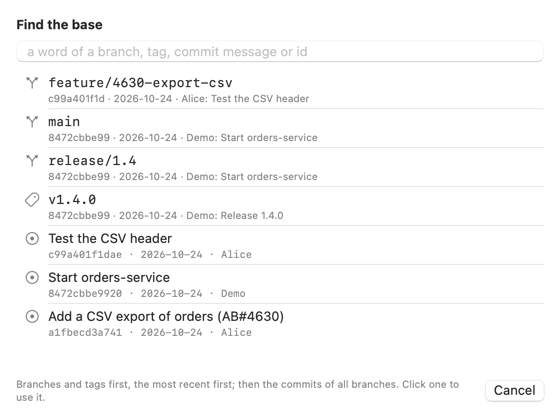
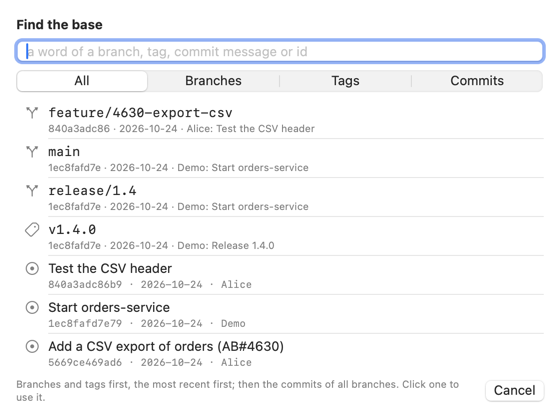
Filter Find… by branches, tags or commits
The Find sheet of a local review's Base and Head gets All / Branches /
Tags / Commits; the 30-row limit counts only the chosen kind, so a
filter shows more of it. CLI: akit review points --kind.

diff --git a/AKitCore/Sources/AKitReview/ReviewLocalPoints.swift b/AKitCore/Sources/AKitReview/ReviewLocalPoints.swift
@@ -17,6 +17,30 @@ public struct ReviewLocalPoint: Codable, Sendable, Hashable, Identifiable {
     public var author: String
     public var date: String
     public var id: String { "\(kind.rawValue):\(name)" }
+
+    /// What Find… shows: everything, or one kind (Branches holds the remote ones too).
+    public enum Filter: String, Codable, Sendable, CaseIterable, Identifiable {
+        case all, branches, tags, commits
+        public var id: Self { self }
+
+        public var title: String {
+            switch self {
+            case .all: "All"
+            case .branches: "Branches"
+            case .tags: "Tags"
+            case .commits: "Commits"
+            }
+        }
+
+        public func admits(_ kind: Kind) -> Bool {
+            switch self {
+            case .all: true
+            case .branches: kind == .branch || kind == .remote
+            case .tags: kind == .tag
+            case .commits: kind == .commit
+            }
+        }
+    }
 }
 
 extension ReviewLocal {
@@ -26,8 +50,9 @@ extension ReviewLocal {
     /// word of it is in the name, the commit's subject or author, or starts the commit id. Refs
     /// come first, the most recent first (a tag by its own date), then the commits of all branches,
     /// newest first.
-    /// An empty query gives the most recent ones.
-    public static func points(path: URL, query: String = "", limit: Int = 30, env: HarnessEnvironment) async throws -> [ReviewLocalPoint] {
+    /// An empty query gives the most recent ones. `filter` keeps one kind; the limit counts only those.
+    public static func points(path: URL, query: String = "", filter: ReviewLocalPoint.Filter = .all, limit: Int = 30,
+                              env: HarnessEnvironment) async throws -> [ReviewLocalPoint] {
         guard let git = env.findExecutable("git") else { throw Failure(message: "git is not installed.") }
         func run(_ arguments: [String]) async -> String? {
             let result = await ProcessRunner.run(git, arguments: ["-C", path.path] + arguments, environment: env.gitVariables, timeout: 60)
@@ -39,11 +64,11 @@ extension ReviewLocal {
         let words = query.lowercased().split(whereSeparator: \.isWhitespace).map(String.init)
         func matches(_ point: ReviewLocalPoint) -> Bool {
             let text = "\(point.name) \(point.subject) \(point.author)".lowercased()
-            return words.allSatisfy { text.contains($0) || point.sha.hasPrefix($0) }
+            return filter.admits(point.kind) && words.allSatisfy { text.contains($0) || point.sha.hasPrefix($0) }
         }
 
         var found: [ReviewLocalPoint] = []
-        let refs = await run(["for-each-ref", "--sort=-creatordate",
+        let refs = filter == .commits ? "" : await run(["for-each-ref", "--sort=-creatordate",
                               "--format=%(refname)%1f%(refname:short)%1f%(objectname)%1f%(subject)%1f%(authorname)%1f%(committerdate:short)%1f%(*objectname)%1f%(*authorname)%1f%(*committerdate:short)%1f%(objecttype)%1f%(*objecttype)",
                               "refs/heads", "refs/remotes", "refs/tags"]) ?? ""
         for line in refs.split(separator: "\n") {
@@ -62,10 +87,10 @@ extension ReviewLocal {
             if matches(point) { found.append(point) }
         }
 
-        var commits = await run(["log", "--branches", "--remotes", "--tags", "HEAD", "-n", String(maxSearchedCommits), "--date=short",
+        var commits = !filter.admits(.commit) ? "" : await run(["log", "--branches", "--remotes", "--tags", "HEAD", "-n", String(maxSearchedCommits), "--date=short",
                                  "--format=%H%x1f%s%x1f%an%x1f%ad"]) ?? ""
         // An older commit by its id: the log above doesn't go that far back.
-        if let word = words.first, words.count == 1, word.count >= 4, word.range(of: "^[0-9a-f]+$", options: .regularExpression) != nil,
+        if filter.admits(.commit), let word = words.first, words.count == 1, word.count >= 4, word.range(of: "^[0-9a-f]+$", options: .regularExpression) != nil,
            !commits.contains("\n\(word)"), !commits.hasPrefix(word),
            let one = await run(["log", "-1", "--date=short", "--format=%H%x1f%s%x1f%an%x1f%ad", "\(word)^{commit}", "--"]) {
             commits += "\n" + one

diff --git a/AKitCore/Sources/AKitCommandLine/ReviewCommand.swift b/AKitCore/Sources/AKitCommandLine/ReviewCommand.swift
@@ -27,11 +27,12 @@ extension AKitCLI {
                                         already reviewed this commit. A rerun after a push reviews
                                         only what changed since the last review; --full reads the
                                         whole merge request again
-      akit review points [PATH] [--find TEXT] [--json]
+      akit review points [PATH] [--find TEXT] [--kind branches|tags|commits] [--json]
                                         Find a base or head for a local review: the branches, remote
                                         branches, tags and commits of the workspace (PATH: the current
                                         folder) whose name, commit message, author or id holds every
-                                        word of TEXT; the most recent first
+                                        word of TEXT; the most recent first. --kind shows one kind
+                                        (branches: the remote ones too)
       akit review local [PATH] [--base REF] [--head REF] [--what all|commits|uncommitted] [--show]
                          [--scenario S] [--project P] [--role +ID|-ID]… [--passes-model M]
                          [--verifier-model M] [--cap CREDITS] [--note TEXT]… [--note-file PATH]…
@@ -164,6 +165,7 @@ extension AKitCLI {
         let baseRef = args.value("--base")
         let headRef = args.value("--head")
         let findText = args.value("--find")
+        let kindText = args.value("--kind")
         let whatText = args.value("--what")
         let showOnly = args.flag("--show")
         var choices = ReviewRunChoices(scenario: scenario, settings: settings, workItems: wis)
@@ -404,7 +406,13 @@ extension AKitCLI {
             let path = args.positional().map { resolve($0, cwd: cwd, env: env) } ?? cwd
             let json = args.flag("--json")
             try args.finish()
-            let points = try await ReviewLocal.points(path: path, query: findText ?? "", env: env)
+            let filter = try kindText.map { text -> ReviewLocalPoint.Filter in
+                guard let filter = ReviewLocalPoint.Filter(rawValue: text), filter != .all else {
+                    throw Failure(message: "--kind is branches, tags or commits, not \(text).")
+                }
+                return filter
+            } ?? .all
+            let points = try await ReviewLocal.points(path: path, query: findText ?? "", filter: filter, env: env)
             if json {
                 out(String(decoding: try ReviewJSON.encoder.encode(points), as: UTF8.self))
             } else if points.isEmpty {

diff --git a/AKit/Review/ReviewPointField.swift b/AKit/Review/ReviewPointField.swift
@@ -43,6 +43,7 @@ struct ReviewPointSearch: View {
     /// The chosen point; nil = Cancel.
     let pick: (ReviewLocalPoint?) -> Void
     @State private var query = ""
+    @State private var filter: ReviewLocalPoint.Filter = DebugSnapshot.options?.select.flatMap(ReviewLocalPoint.Filter.init(rawValue:)) ?? .all
     @State private var points: [ReviewLocalPoint] = []
     @State private var problem: String?
     @State private var loaded = false
@@ -52,6 +53,11 @@ struct ReviewPointSearch: View {
             Text("Find the \(title.lowercased())").font(.headline)
             TextField("Search", text: $query, prompt: Text("a word of a branch, tag, commit message or id"))
                 .textFieldStyle(.roundedBorder)
+            Picker("Show", selection: $filter) {
+                ForEach(ReviewLocalPoint.Filter.allCases) { Text($0.title).tag($0) }
+            }
+            .pickerStyle(.segmented)
+            .labelsHidden()
             if let problem {
                 Text(problem).font(.caption).foregroundStyle(.red)
             } else if loaded && points.isEmpty {
@@ -65,7 +71,8 @@ struct ReviewPointSearch: View {
                 .listStyle(.plain)
             }
             HStack {
-                Text("Branches and tags first, the most recent first; then the commits of all branches. Click one to use it.")
+                Text(filter == .all ? "Branches and tags first, the most recent first; then the commits of all branches. Click one to use it."
+                     : "The most recent first. Click one to use it.")
                     .font(.caption).foregroundStyle(.secondary)
                 Spacer()
                 Button("Cancel") { pick(nil) }.keyboardShortcut(.cancelAction)
@@ -73,7 +80,7 @@ struct ReviewPointSearch: View {
         }
         .padding()
         .frame(width: 560, height: 420)
-        .task(id: query) { await search() }
+        .task(id: "\(filter.rawValue)|\(query)") { await search() }
     }
 
     private func row(_ point: ReviewLocalPoint) -> some View {
@@ -110,7 +117,7 @@ struct ReviewPointSearch: View {
         if loaded { try? await Task.sleep(for: .milliseconds(250)) }
         guard !Task.isCancelled else { return }
         do {
-            let found = try await ReviewLocal.points(path: workspace, query: query, env: env)
+            let found = try await ReviewLocal.points(path: workspace, query: query, filter: filter, env: env)
             guard !Task.isCancelled else { return }
             points = found
             problem = nil

diff --git a/AKitCore/Tests/AKitReviewTests/LocalTests.swift b/AKitCore/Tests/AKitReviewTests/LocalTests.swift
@@ -122,6 +122,13 @@ extension ReviewProcessTests {
             let byID = try await ReviewLocal.points(path: repo, query: String(first.prefix(7)), env: home.env)
             #expect(byID.contains { $0.kind == .commit && $0.sha == first && $0.name == String(first.prefix(12)) })
             #expect(try await ReviewLocal.points(path: repo, query: "nothing-like-this", env: home.env).isEmpty)
+
+            // One kind at a time; the limit counts only that kind.
+            #expect(try await ReviewLocal.points(path: repo, query: "vat", filter: .branches, env: home.env).map(\.name) == ["feature/AB#41-total"])
+            #expect(try await ReviewLocal.points(path: repo, query: "vat", filter: .commits, env: home.env).map(\.subject) == ["Add VAT"])
+            #expect(try await ReviewLocal.points(path: repo, filter: .tags, env: home.env).map(\.name) == ["v1"])
+            #expect(try await ReviewLocal.points(path: repo, filter: .commits, limit: 2, env: home.env).allSatisfy { $0.kind == .commit })
+            #expect(try await ReviewLocal.points(path: repo, filter: .commits, limit: 2, env: home.env).count == 2)
             await #expect(throws: ReviewLocal.Failure.self) { try await ReviewLocal.points(path: home.url, env: home.env) }
         }
 

diff --git a/AKit/DebugSnapshot.swift b/AKit/DebugSnapshot.swift
@@ -29,7 +29,7 @@ import SwiftUI
 /// `--brain <folder>` reads the brain repo from there (not saved in Settings); `--appearance light|dark`;
 /// `--click 640,400` clicks there (snapshot points from the top left) before the capture;
 /// `--size 1280x800` sets the window size; `--select <layer>` (or `project:<id>`) on the Brain screen; `--demo` hides the build badge (README screenshots, see `make screenshots`); on the Brain screen
-/// Review: `--add` opens New Review… (`--query /path` on Local Workspace; `--tab find-base` or `find-head` then opens that Find…).
+/// Review: `--add` opens New Review… (`--query /path` on Local Workspace; `--tab find-base` or `find-head` then opens that Find…, `--select branches|tags|commits` sets its filter).
 /// `--tab setup` opens Set Up Project (with `--project`, `--query <layers>`, `--local-only` picks Local only, `--capture` for the preview).
 /// Lab: `--tab sends` shows the send log; with `--select <run id>` of a review, `--tab notes` opens its
 /// notes' disclosures and `--tab recheck` the Re-check sheet (`tools/demo-home.sh` has one). Settings: `--tab lab` (or `scrub`) scrolls to the sending

diff --git a/AKitCore/Sources/AKitBrain/AKitSkill.swift b/AKitCore/Sources/AKitBrain/AKitSkill.swift
@@ -234,9 +234,9 @@ does or why; `--json` for the data, `--mermaid` for the flow only. It is never p
 review.yaml or a profile's `review:`) sets the overview's language (`en`, `ru`, `cs`, …); the default
 is the Mac's preferred language, else English. GitLab text keeps `posting: language`.
 
-`akit review points [PATH] --find TEXT [--json]` lists the branches, remote branches, tags and
+`akit review points [PATH] --find TEXT [--kind branches|tags|commits] [--json]` lists the branches, remote branches, tags and
 commits of a local workspace whose name, commit message, author or id start holds every word of
-TEXT (refs first, the most recent first). Use it when the user names a branch or a commit only
+TEXT (refs first, the most recent first; `--kind` keeps one kind). Use it when the user names a branch or a commit only
 roughly, then review with `akit review local [PATH] --base NAME --head NAME`: `--head` ends the
 range at another branch or commit than HEAD (without the uncommitted changes), e.g.
 `--base v1.4.0 --head v1.5.0` for what a release added. In the app: New Review… → Local

diff --git a/AKitCore/Tests/AKitCommandLineTests/ReviewCLITests.swift b/AKitCore/Tests/AKitCommandLineTests/ReviewCLITests.swift
@@ -201,6 +201,9 @@ extension AKitCLITests {
         let json = await review(["points", repo.path, "--json"])
         #expect(json.out.contains("\"kind\" : \"branch\"") && json.out.contains("\"subject\" : \"Change a\""))
         #expect(await review(["points", repo.path, "--find", "zzz"]).out.contains("No branch, tag or commit matches zzz."))
+        let onlyCommits = await review(["points", repo.path, "--kind", "commits"])
+        #expect(onlyCommits.code == 0 && onlyCommits.out.contains("commit  ") && !onlyCommits.out.contains("branch  "), "\(onlyCommits)")
+        #expect(await review(["points", repo.path, "--kind", "files"]).err.contains("--kind is branches, tags or commits"))
         git("checkout", "-q", "main")
         let upTo = await review(["local", repo.path, "--head", "topic", "--show"])
         #expect(upTo.code == 0 && upTo.out.contains("up to topic") && upTo.out.contains("1 commit since main ("), "\(upTo)")

diff --git a/docs/guides/review.ru.md b/docs/guides/review.ru.md
@@ -720,21 +720,22 @@ pi:
 1. Заполните **Workspace**. Пока папки нет, **Find…** неактивна.
 2. Нажмите **Find…** у **Base** (откуда считать) или у **Head** (до чего смотреть).
 3. В окне «Find the base» (или «Find the head») сразу видны последние ветки, теги и коммиты.
-4. Впишите слово в поле поиска. Подойдёт часть имени ветки или тега, слово из заголовка коммита, автор или начало хэша. Пример: `4630`, `csv`, `alice`, `1d5d1f`.
-5. Нажмите на строку. Её имя встанет в поле: имя ветки или тега, у коммита — 12 знаков хэша. **Cancel** закрывает окно без выбора.
+4. Нужен только один вид — нажмите его в переключателе под полем поиска: **Branches** (ветки, и `origin/…` тоже), **Tags** (теги) или **Commits** (коммиты). **All** показывает всё.
+5. Впишите слово в поле поиска. Подойдёт часть имени ветки или тега, слово из заголовка коммита, автор или начало хэша. Пример: `4630`, `csv`, `alice`, `1d5d1f`.
+6. Нажмите на строку. Её имя встанет в поле: имя ветки или тега, у коммита — 12 знаков хэша. **Cancel** закрывает окно без выбора.
 
 Несколько слов ищут вместе: строка подходит, только если в ней есть каждое слово. Пример: `export csv`. Большие и маленькие буквы не важны.
 
-![Окно Find the base поверх New Review…: пустое поле поиска с подсказкой a word of a branch, tag, commit message or id; ветки feature/4630-export-csv, main и release/1.4 со значком ветки, тег v1.4.0 со значком тега — у каждой строки короткий хэш, дата, автор и заголовок коммита; ниже коммиты Test the CSV header, Add a CSV export of orders (AB#4630) и Start orders-service с хэшем, датой и автором; внизу подпись Branches and tags first, the most recent first; then the commits of all branches. Click one to use it. и кнопка Cancel](images/review-local-find.png)
+![Окно Find the base поверх New Review…: пустое поле поиска с подсказкой a word of a branch, tag, commit message or id; под ним переключатель All, Branches, Tags, Commits со значением All; ветки feature/4630-export-csv, main и release/1.4 со значком ветки, тег v1.4.0 со значком тега — у каждой строки короткий хэш, дата, автор и заголовок коммита; ниже три коммита — Test the CSV header, Add a CSV export of orders (AB#4630), Start orders-service — с хэшем, датой и автором; внизу подпись Branches and tags first, the most recent first; then the commits of all branches. Click one to use it. и кнопка Cancel](images/review-local-find.png)
 
 Порядок строк:
 
 - Сначала ветки (значок ветки), ветки `origin/…` (облако) и теги (ярлык). Свежие — выше; у тега с сообщением — дата самого тега.
 - Потом коммиты всех веток (кружок), новые — выше. Строка коммита — его заголовок, под ним хэш, дата и автор.
-- Окно показывает до 30 строк. Не нашли нужное — уточните слово.
+- Окно показывает до 30 строк. Не нашли нужное — уточните слово или выберите один вид: тогда все 30 строк — этого вида. Пример: **Commits** и пустой поиск — 30 последних коммитов.
 - Коммит старше последней тысячи коммитов находится только по началу хэша (не меньше 4 знаков).
 
-В терминале то же делает `akit review points . --find TEXT`. С `--json` — список для скрипта. Пример:
+В терминале то же делает `akit review points . --find TEXT`. Один вид — `--kind branches|tags|commits`. С `--json` — список для скрипта. Пример:
 
 ```
 $ akit review points . --find csv

diff --git a/docs/guides/terms.ru.md b/docs/guides/terms.ru.md
@@ -1072,6 +1072,7 @@ Friction («трение») — места, где агент спотыкалс
 - **Base**: от чего считать коммиты: ветка, тег или коммит. Пустое поле — главная ветка (`origin/HEAD`, `origin/main`, `origin/master`, `main` или `master`, но не текущая ветка и не ветка из **Head**). В терминале — `--base REF`. Подробнее: [Поля Base и Head](review#local-base)
 - **Head**: до чего смотреть: ветка, тег или коммит. Пустое поле — ваш HEAD вместе с незакоммиченными файлами. Другой **Head** берёт только коммиты. В терминале — `--head REF`. Подробнее: [Поля Base и Head](review#local-base)
 - **Find…**: кнопка у **Base** и **Head**: найти ветку, тег или коммит по слову из имени, заголовка, автора или по началу хэша. Нажатая строка встаёт в поле. В терминале — `akit review points . --find TEXT`. Подробнее: [Найти ветку или коммит](review#local-find)
+- **All / Branches / Tags / Commits**: переключатель в окне **Find…**: показать всё или один вид. **Branches** — и ветки `origin/…`. Предел 30 строк считает только выбранный вид. В терминале — `--kind branches|tags|commits`. Подробнее: [Найти ветку или коммит](review#local-find)
 - **Find the base / Find the head**: окно **Find…**: сначала ветки и теги, свежие выше, потом коммиты всех веток; до 30 строк. «No branch, tag or commit matches.» — ничего не нашлось. Подробнее: [Найти ветку или коммит](review#local-find)
 - **up to <ветка> at <коммит> · base <база>**: строка под полями, когда в **Head** вписана другая ветка или коммит. Подробнее: [Поля Base и Head](review#local-base)
 - **<ветка> at <коммит> · base <база>**: строка под полями: ветка копии, её последний коммит и база. «base none» — AKit не нашёл базу. Подробнее: [Диапазон](review#local-range)

diff --git a/docs/design/review.md b/docs/design/review.md
@@ -194,7 +194,8 @@ branch or commit name):
   (an annotated tag gives its commit, the commit's author and date, its own message) and the last
   1,000 commits of all branches and HEAD (newest first), plus an older commit by an id start of
   4+ hex characters. Every word of the query must be in the name, the subject or the author, or
-  start the id; any case. Refs first (the most recent first, `creatordate`: a tag by its own date),
+  start the id; any case. A filter (All, Branches with the remote ones, Tags, Commits; `--kind`)
+  keeps one kind before the limit. Refs first (the most recent first, `creatordate`: a tag by its own date),
   then commits; at most 30. A tag on a tree or a blob is left out. New Review… clears the range
   while it reads a new Base or Head, so Start Review never takes the old one.
 - Head: `inspect(path, base?, head?)`. A head other than the workspace's HEAD reviews
